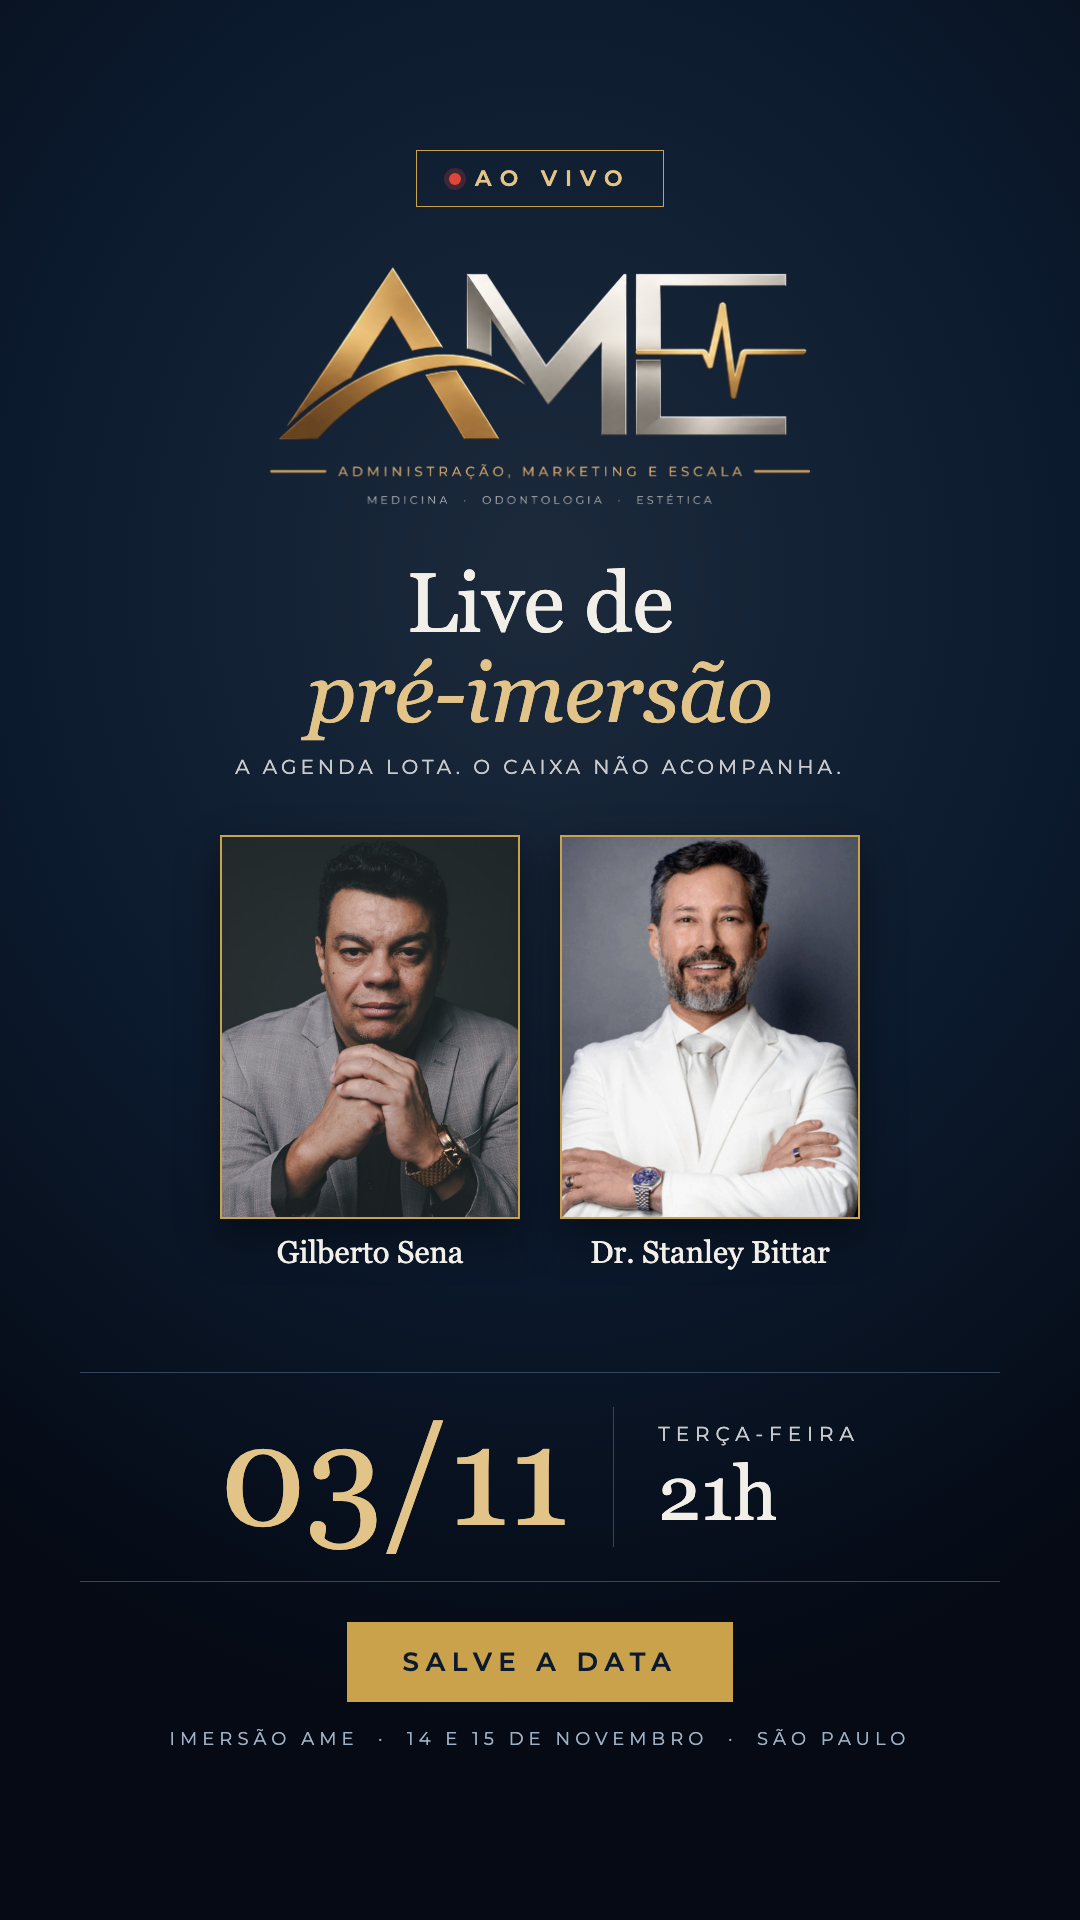
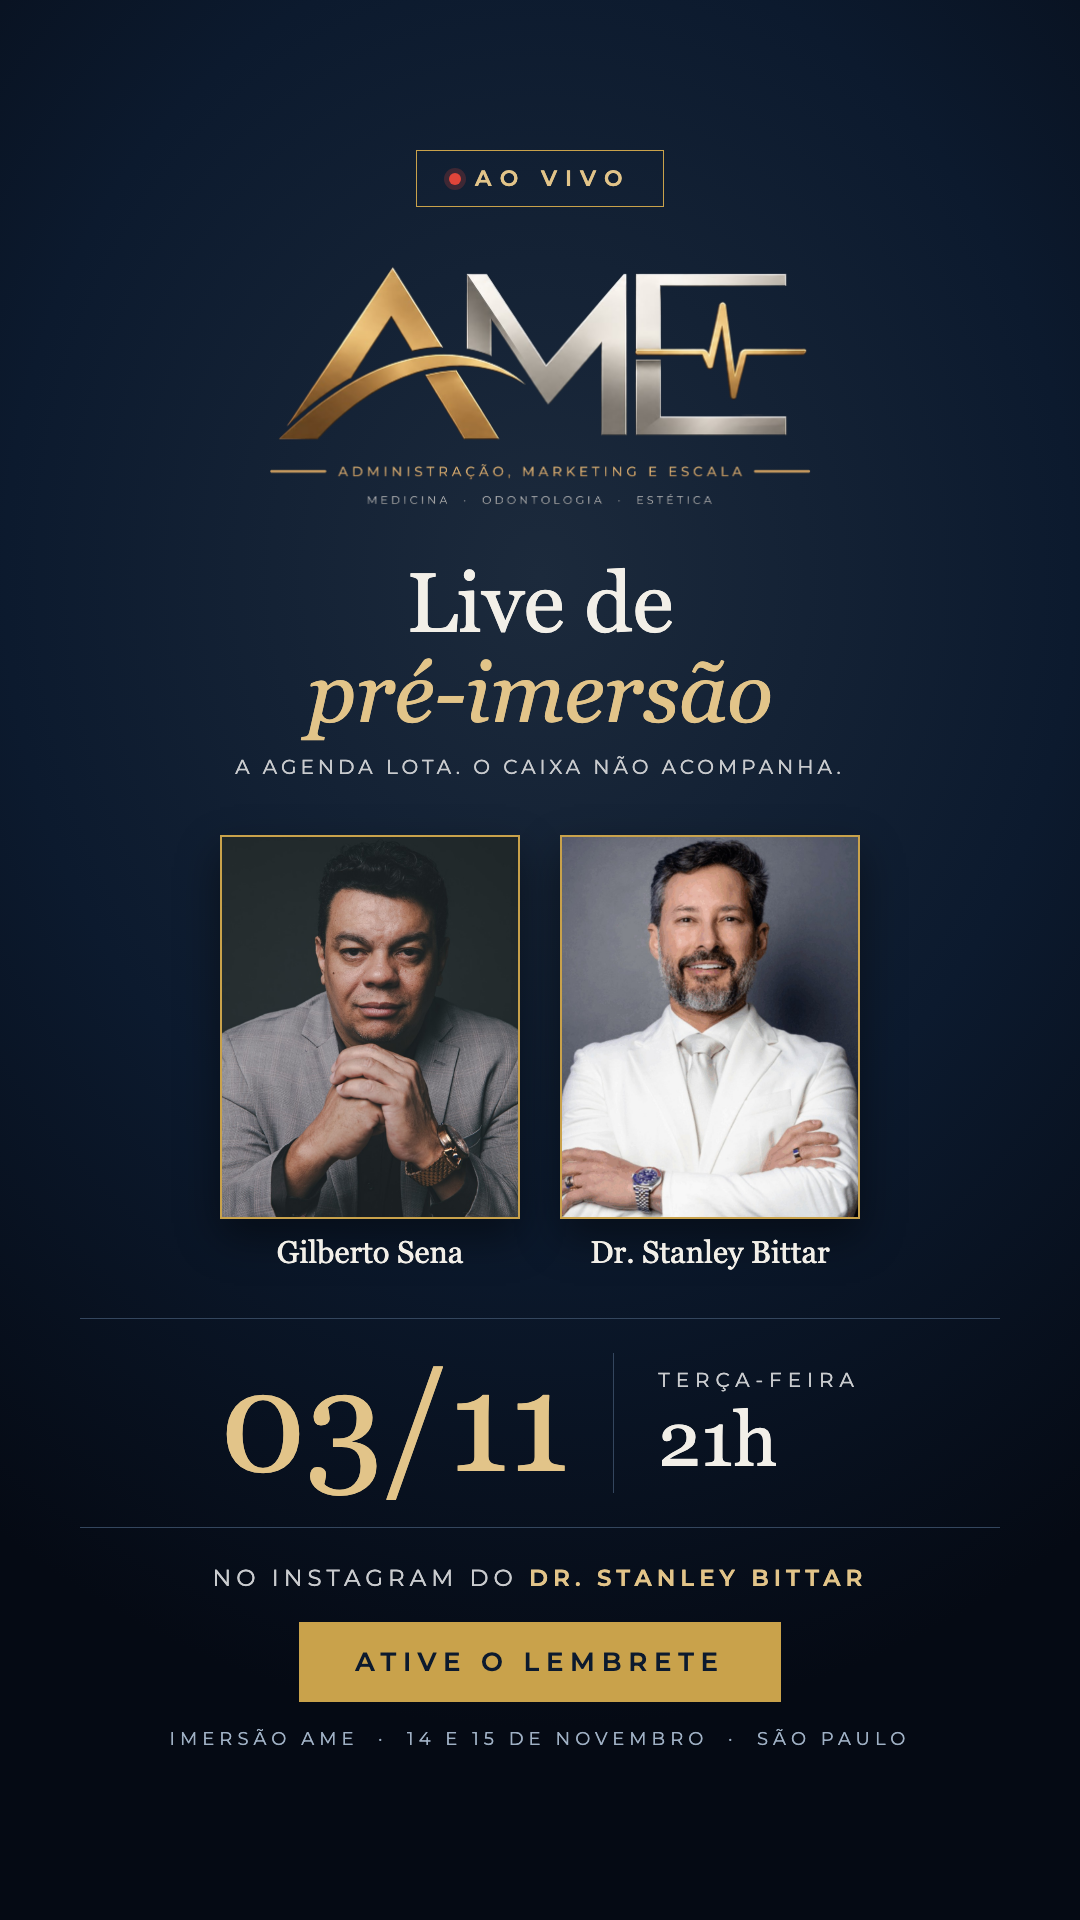
AME: live de pre-imersao no Instagram do Dr. Stanley, botao Ative o lembrete

Changed region(s): [[0.2139, 0.7188, 0.7944, 0.9062], [0.7639, 0.7188, 0.7944, 0.75]]

diff --git a/sb/AME/divulgacao/live-pre-imersao.html b/sb/AME/divulgacao/live-pre-imersao.html
@@ -33,7 +33,9 @@
   .hora{display:flex;flex-direction:column;gap:10px}
   .hora span{font-size:17px;letter-spacing:.3em;text-transform:uppercase;color:var(--prata)}
   .hora b{font-family:Georgia,serif;font-weight:400;font-size:58px;line-height:1}
-  .cta{margin-top:28px;background:var(--ouro);color:#0C1A2E;font-size:21px;font-weight:600;
+  .onde{margin-top:24px;font-size:19px;letter-spacing:.22em;text-transform:uppercase;color:var(--prata)}
+  .onde b{font-weight:600;color:var(--ouro-claro)}
+  .cta{margin-top:22px;background:var(--ouro);color:#0C1A2E;font-size:21px;font-weight:600;
        letter-spacing:.26em;text-transform:uppercase;padding:18px 44px}
   .rodape{margin-top:20px;font-size:15px;letter-spacing:.28em;text-transform:uppercase;color:#9FB0C4}
 
@@ -50,7 +52,8 @@
   body.story .data{font-size:140px}
   body.story .hora b{font-size:76px}
   body.story .hora span{font-size:20px}
-  body.story .cta{font-size:26px;padding:24px 56px;margin-top:40px}
+  body.story .onde{font-size:23px;margin-top:36px}
+  body.story .cta{font-size:26px;padding:24px 56px;margin-top:30px}
   body.story .rodape{font-size:18px;margin-top:26px}
 </style>
 </head>
@@ -69,7 +72,8 @@
     <div class="sep"></div>
     <div class="hora"><span>Terça-feira</span><b>21h</b></div>
   </div>
-  <div class="cta">Salve a data</div>
+  <div class="onde">No Instagram do <b>Dr. Stanley Bittar</b></div>
+  <div class="cta">Ative o lembrete</div>
   <div class="rodape">Imersão AME &nbsp;·&nbsp; 14 e 15 de novembro &nbsp;·&nbsp; São Paulo</div>
 </body>
 </html>

diff --git a/_memoria/onde-paramos.md b/_memoria/onde-paramos.md
@@ -74,7 +74,8 @@ imersão fica em `sb/AME/`** (pasta pedida por ele em 26/out).
   - **2º lote: 12 reels de teste publicados em 31/10 (~19h45)**, CRTV AME 5 a 16, os doze conferidos (é ele, sem preço,
     "+15 anos"). Na legenda, "teu/tua/contigo" virou "seu/sua/com você". Ver `sb/AME/divulgacao/reels-de-teste-2026-10-31/LEIA.md`.
   - **Banner da live de pré-imersão, 03/11 (terça) às 21h** (01/nov): feed e story em `sb/AME/divulgacao/live-pre-imersao-*.png`,
-    com os dois e "Salve a data". Não diz a plataforma (Instagram? perfil de quem?) nem o link: perguntar se ele quiser pôr.
+    com os dois. A live é **no Instagram do Dr. Stanley** (decisão dele, 01/nov); botão "Ative o lembrete". Falta o @ do
+    Stanley, que não está em lugar nenhum aqui: pedir a ele e trocar o nome pelo @.
 - **Falta:**
   - ✅ Link de inscrição na bio do Instagram (ele confirmou em 30/out). Falta só o story e o WhatsApp, se ele quiser.
   - **Contratos: 3 modelos prontos em 30/out** em `sb/AME/contratos/` (termo de inscrição da imersão, Choque de Ordem e
